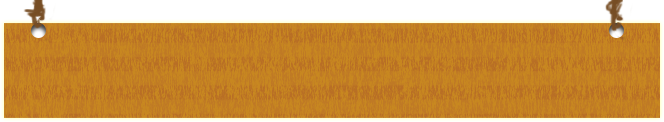
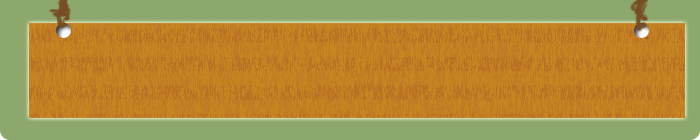
about us updated.

diff --git a/statics/scripts/about.js b/statics/scripts/about.js
@@ -5,7 +5,7 @@
         var options = $.extend({
             aboutId:                         'about',
             titleClass:                      'title',
-            introduceId:                     'introduce',
+            introduceId:                     'introdution',
             tagBar:                          'tagBar',
             animationClass:                  'animation',
             block1InfClass:                  'information',
@@ -18,8 +18,8 @@
         var tagbarIndex = 0;
         var tagbar = $('.' + options.tagBar + ' img');
         var tagbarPerson = $('.' + options.tagBar + ' div');
-        var personName = $('<p></p>').hide();
-        var personGrade = $('<p></p>').hide();
+        var personName = $('<p></p>').addClass('tag-Box-name').hide();
+        var personGrade = $('<p></p>').addClass('tag-Box-grade').hide();
         var photoNumber = 8;
         var smallPhotoIndex = 0;
         var jumpTo = function()
@@ -52,23 +52,26 @@
                 .addClass('block2')
         ]
         var itr = $('<div></div>').css({
-            padding: 5,
+            paddingLeft: 15,
+            paddingBottom: 10,
+            paddingRight: 10,
+            paddingTop: 1,
             borderRadius: 10,
             background: '#fffce0',
             position: 'relative',
             float: 'top',
             left: 25,
-            height: 550,
-            width: 700,
+            height: 739,
+            width: 675,
         })
         .appendTo(blocks[0])
-        .append($('#' + options.introduceId));
+        .append($('.' + options.introduceId));
         var picture = $('<div></div>')
             .css({
                 background: 'url(\'' + photos.eq(photoIndex).attr('photo') + '0.png' + '\')',
                 float: 'right',
                 height: 300,
-                top: -68,
+                top: -722,
                 position: 'relative',
                 width:  400
             })
@@ -193,7 +196,13 @@
                  default:
                     break;
             }
-            $(this).click(function()
+            $(this).mouseenter(function()
+            {
+                $(this).css({
+                    cursor: 'pointer'
+                })
+            })
+            .click(function()
             {
                 for ( var i = 0; i < 4; i++)
                 {
@@ -216,29 +225,15 @@
             {
                 var tempObject = $(this);
                 $(this).css({
-                    background: 'url(\'' + tagbar.eq(5).attr('src') + '\')'
+                    border: '5px solid white'
                 });
-                personName.text(tempObject.attr('name')).css({
-                    Button: '20%',
-                    left: 0,
-                    height: '10%',
-                    width: '100%'
-                })
-                .show()
-                .appendTo(tempObject);
-                personGrade.text(tempObject.attr('grade')).css({
-                    Button: '10%',
-                    left: 0,
-                    height: '10%',
-                    width: '100%'
-                })
-                .show()
-                .appendTo(tempObject);
+                personName.text(tempObject.attr('name')).show().appendTo(tempObject);
+                personGrade.text(tempObject.attr('grade')).show().appendTo(tempObject);
             })
             .mouseleave(function()
             {
                 $(this).css({
-                    background: ''
+                    border: ''
                 });
                 personName.hide();
                 personGrade.hide();

diff --git a/statics/styles/style.css b/statics/styles/style.css
@@ -2310,19 +2310,21 @@ button.news-button
     cursor: pointer;
 }
 
-#about #introduce
+#about .introdution
 {
     border-radius: 3px;
     color: black;
     font-family: 微軟正黑體;
     font-size: 18px;
+    line-height: 24px;
+    letter-spacing: 3px;
 }
 
 #about .tag-txt
 {
-    background: url('../about/small_wood_plate.png') no-repeat #8ca86c center;
+    background: url('../about/small_wood_plate.png') no-repeat;
     left: 25px;
-    height: 122px;
+    height: 140px;
     width: 700px;
     position: relative;
     margin-top: -0px;
@@ -2342,7 +2344,7 @@ button.news-button
 
 #about .title2
 {
-    background: url('../about/who_with_stars.png') #385281 no-repeat;
+    background: url('../about/who_with_stars.png') #385281  no-repeat;
     width: 750px;
     height: 85px;
 }
@@ -2350,14 +2352,14 @@ button.news-button
 #about .block1
 {
     background: #385281;
-    height: 560px;    
+    height: 750px;    
     width: 750px;
 }
 
 #about .block2
 {
     background: #385281;
-    height: 900px;    
+    height: 950px;    
     width: 750px;
 }
 
@@ -2373,6 +2375,24 @@ button.news-button
     height: 508px;
     width: 700px;
     position: relative;
+}
+
+#about .tag-Box-name
+{
+    top: 95%;
+    position: absolute;
+    text-align: center;
+    height: 10%;
+    width: 100%;
+}
+
+#about .tag-Box-grade
+{
+    top: 120%;
+    position: absolute;
+    text-align: center;
+    height: 10%;
+    width: 100%;
 }
 
 /**

diff --git a/application/views/about/index.php b/application/views/about/index.php
@@ -1,28 +1,35 @@
 <div id="about">
     <div class="title"></div>
-    <PRE id="introduce">        嗨！各位新生你們好！求學的新
-階段總是令人興奮，特別是從高中解
-脫的你們，對於新生活總是既期待又
-怕受傷害。身為學長姐的我們，曾經
-也走過這段，心情也正是如此，像個
-無頭蒼蠅毫無目的，正是聽到你們的
-呼叫，化身為「大一生活知訊網」，
-成為你們的”校園網路導覽員”！
-　　一年又一年的經驗傳承及追求創
-新，知訊網的進步、所有的付出，都
-是為了讓新鮮人，帶著期待、愉快的
-心情來迎接大學生活，並能夠對校園
-周遭的環境及資源有初步的認識，甚
-至是提早認識新朋友！有關宿舍、生活、註冊...所有的一切，都可以透過知訊網來得知。
-　　除了我們所提供的，當然還有許多神秘未知的問題，我們另外設置了屬於各系及
-社團的論壇專區，讓大家能跟系上同學、學長姐彼此交流，不錯過任何即時訊息，更
-深入地瞭解中大的一切！
-　　非常感謝新鮮人們使用「2012大一生活知訊網」，在十月我們將完成團隊的使命
-－”帶領各位熟悉中大校園”。在十月之後，我們團隊將會傳承給下一代的你們，讓知
-訊網能夠薪火相傳。如果你有感受到知訊網的用心，願意為下一屆的學弟妹們盡一份
-心力，並且對知訊網有很多想法及熱情，歡迎你們加入，「2012大一生活知訊網」需
-要你唷！詳細在開學後的十月、十一月，將會在校園各處或是BBS上張貼訊息、公布
-招募資訊，屆時將有更完整的資訊，請大家敬請期待！</PRE>
+    <PRE class="introdution">
+    
+    嗨！各位新生你們好！求
+學的新階段總是令人興奮，特
+別是從高中解脫的你們，對於
+新生活總是既期待又怕受傷害
+。身為學長姐的我們，曾經也
+走過這段，心情也正是如此，
+像個無頭蒼蠅毫無目的，正是
+聽到你們的呼叫，化身為「大
+一生活知訊網」，成為你們的
+＂校園網路導覽員＂！
+
+
+　　一年又一年的經驗傳承及追求創新，知訊網的進步、所有的付出，都
+是為了讓新鮮人，帶著期待、愉快的心情來迎接大學生活，並能夠對校園
+周遭的環境及資源有初步的認識，甚至是提早認識新朋友！有關宿舍、生
+活、註冊....所有的一切，都可以透過知訊網來得知。
+
+　　除了我們所提供的，當然還有許多神秘未知的問題，我們另外設置了
+屬於各系及社團的論壇專區，讓大家能跟系上同學、學長姐彼此交流，不
+錯過任何即時訊息，更深入地瞭解中大的一切！
+
+　　非常感謝新鮮人們使用「２０１２大一生活知訊網」，在十月我們將
+完成團隊的使命－＂帶領各位熟悉中大校園＂。在十月之後，我們團隊將
+會傳承給下一代的你們，讓知訊網能夠薪火相傳。如果你有感受到知訊網
+的用心，願意為下一屆的學弟妹們盡一份心力，並且對知訊網有很多想法
+及熱情，歡迎你們加入，「２０１２大一生活知訊網」需要你唷！詳細在
+開學後的十月、十一月，將會在校園各處或是ＢＢＳ上張貼訊息、公布招
+募資訊，屆時將有更完整的資訊，請大家敬請期待！</PRE>
     <ul>
         <li>
             <img src="<?php echo Yii::app()->request->baseUrl; ?>/statics/about/small_left.png" photo="<?php echo Yii::app()->request->baseUrl; ?>/statics/about/photo" alt="" />
@@ -70,7 +77,7 @@
     <ul class="tagBar">
         <li>
             <img src="<?php echo Yii::app()->request->baseUrl; ?>/statics/about/xxx.png" photo="<?php echo Yii::app()->request->baseUrl; ?>/statics/about/xxx.png" alt="美工" />
-            <div name="陳禹傑" grade="" left="0" top="0" width="50" height="50"></div>
+            <div name="陳禹傑" grade="資工2A" left="0" top="0" width="100" height="100"></div>
             <div name="張力"   grade="" left="" top="" width="" height=""></div>
             <div name="李冠勳" grade="" left="" top="" width="" height=""></div>
             <div name="彭恮傑" grade="" left="" top="" width="" height=""></div>
@@ -117,6 +124,5 @@
             <div name="黃筱萍" grade="" left="" top="" width="" height=""></div>
             <div name="盧婉芳" grade="" left="" top="" width="" height=""></div>
         </li>
-        <img src="<?php echo Yii::app()->request->baseUrl; ?>/statics/about/small_photo7.png" alt="框" />
     </ul>
 </div>
